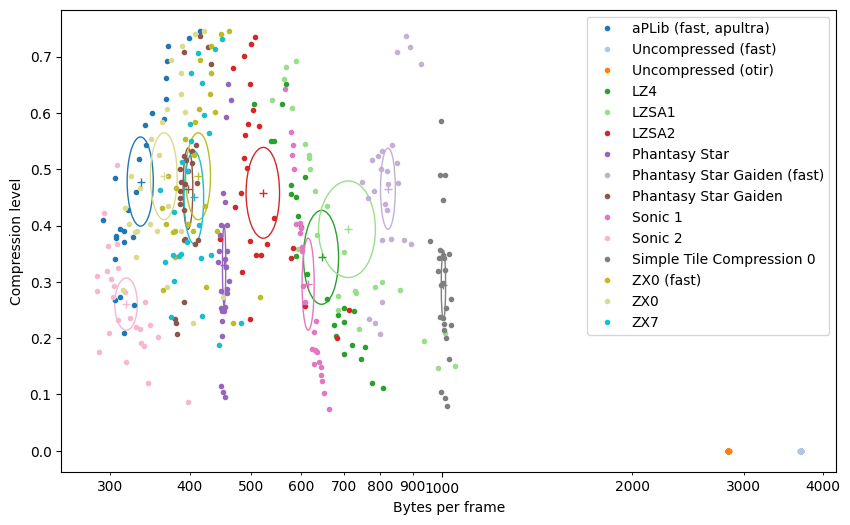
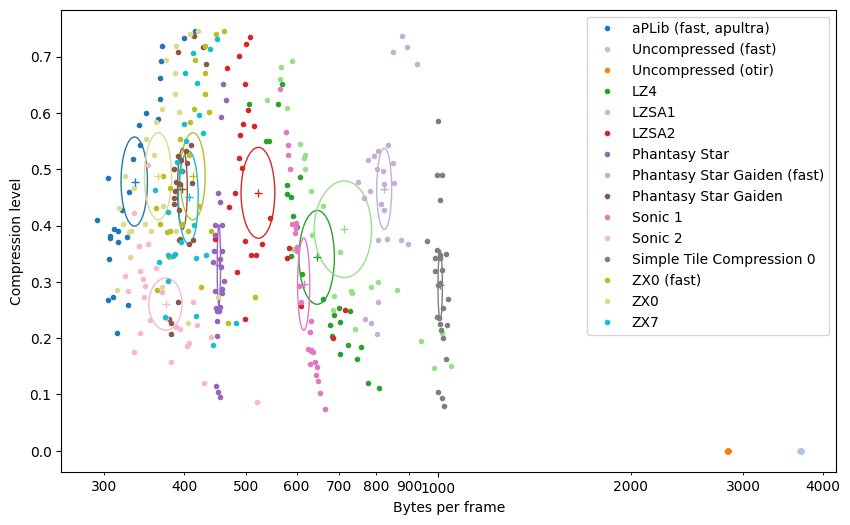
Optimised Sonic 2 decompressor a bit

diff --git a/README.md b/README.md
@@ -38,6 +38,7 @@ Compressors
 | pucrunch | pucrunch    | Pucrunch | [Pucrunch](http://a1bert.kapsi.fi/Dev/pucrunch/) algorithm | ✅ | ✅ |
 | raw      | bin         | Raw (uncompressed) binary | Does no compression at all | ✅ | ✅ |
 | sonic1   | soniccompr  | Sonic 1 | Tile compression from the game [Sonic the Hedgehog](http://www.smspower.org/Games/SonicTheHedgehog-SMS) | ✅ |   |
+| sonic2   | sonic2compr | Sonic 2 | Tile compression from the game [Sonic the Hedgehog 2](http://www.smspower.org/Games/SonicTheHedgehog2-SMS) | ✅ |   |
 | stc0     | stc0compr   | Simple Tile Compression 0 | @sverx's [stc0](https://github.com/sverx/stc0) | ✅ |   |
 | zx0      | zx0         | ZX0 | [ZX0](https://github.com/einar-saukas/ZX0) compression library | ✅ | ✅ |
 | zx7      | zx7         | ZX7 (8-bit limited) | Variant of [ZX7](http://www.worldofspectrum.org/infoseekid.cgi?id=0027996) compression library tweaked for performance | ✅ | ✅ |
@@ -60,6 +61,7 @@ All are for emitting data direct to VRAM on Master System, using Z80 decompresso
 | PS Gaiden (fast)      | 1028 |  32 |
 | Pucrunch (⚠ Broken)  |  412 |  44 |
 | Sonic                 |  162 |   8 |
+| Sonic 2               |  289 |  39 |
 | ZX0                   |  157 |   0 |
 | ZX0 (fast)            |  274 |   0 |
 | ZX7                   |  117 |   0 |
